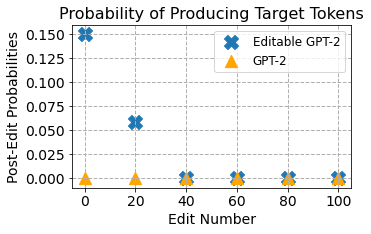
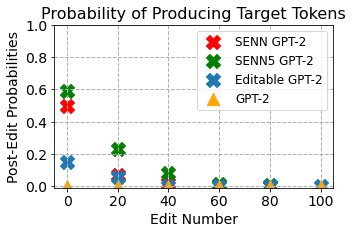
Updated SENN and eval code to work together correctly. Some minor refactors of how SENN gets applied (now in src/utils.py).

Changed region(s): [[0.0, 0.0299, 0.9972, 0.9573], [0.1558, 0.8376, 0.2493, 0.8974], [0.8102, 0.6581, 0.8725, 0.688]]

diff --git a/src/alg/senn_conditional.py b/src/alg/senn_conditional.py
@@ -2,31 +2,18 @@ import torch
 import torch.nn as nn
 from typing import Callable, List
 
+
 def filter_inner_params(params: List[nn.Parameter]):
     return [p for p in params if not hasattr(p, "__conditioner__")]
-
-
-class ConditionalLinear(nn.Module):
-    def __init__(self, dim):
-        super().__init__()
-
-        self.weight = nn.Parameter(torch.eye(dim))
-        self.weight.__conditioner__ = True
-
-    def set_active(self, active: bool):
-        self.active = active
-
-    def forward(self, x):
-        if self.active:
-            return x @ self.weight
-        else:
-            return x
 
 
 class ConditionalLinearWrapper(nn.Module):
     @staticmethod
     def wrap_model(
-        model: nn.Module, n_hidden: int, dim: int, predicate: Callable[[nn.Module], bool]
+        model: nn.Module,
+        n_hidden: int,
+        dim: int,
+        predicate: Callable[[nn.Module], bool],
     ):
         def _recursive_apply(module: nn.Module):
             n_wrapped = 0
@@ -65,18 +52,19 @@ class ConditionalLinearWrapper(nn.Module):
         # If this model already has `inner_params` defined, hot-swap this function to
         #  ensure it doesn't return any conditioning parameters
         if hasattr(model, "inner_params"):
-            def _constructor(old_inner_params):
-                def _senn_inner_params(self):
-                    return filter_inner_params(old_inner_params())
-                return _senn_inner_params
-            _inner_params = _constructor(model.inner_params)
+            print("Overriding existing `inner_params` implementation")
+            type(model).default_inner_params = type(model).inner_params
+            type(model).inner_params = lambda self: filter_inner_params(
+                self.default_inner_params()
+            )
         else:
-            def _inner_params(self):
-                return self.theta()
+            print("Injecting defaulting `inner_params` implementation -> `self.theta`")
+            type(model).default_inner_params = model.theta.__func__
+            type(model).inner_params = model.theta.__func__
 
-        # Add this specifically to this instance
-        model.inner_params = _inner_params.__get__(model)
-        
+        print(f"n default inner params: {len(model.default_inner_params())}")
+        print(f"n inner params: {len(model.inner_params())}")
+
         return model
 
     def __init__(self, module: nn.Module, size: int, dim: int = -1):
@@ -87,6 +75,17 @@ class ConditionalLinearWrapper(nn.Module):
         self.weight.__conditioner__ = True
         self.active = False
         self.dim = dim
+
+        def __deepcopy__(self, memo=None):
+            new_data = torch.empty_like(self.data)
+            new_data[:] = self.data.clone()
+            new_param = nn.Parameter(new_data)
+            if hasattr(self, "__conditioner__"):
+                new_param.__conditioner__ = True
+            new_param.__deepcopy__ = __deepcopy__.__get__(new_param)
+            return new_param
+
+        self.weight.__deepcopy__ = __deepcopy__.__get__(self.weight)
 
     def set_active(self, active: bool):
         self.active = active
@@ -101,3 +100,46 @@ class ConditionalLinearWrapper(nn.Module):
             )
 
         return out
+
+
+def _test_copy(model):
+    import copy
+    print("default", len(model.default_inner_params()))
+    print("inner", len(model.inner_params()))
+    modelcopy = copy.deepcopy(model)
+    print("copied")
+    print("default", len(modelcopy.default_inner_params()))
+    print("inner", len(modelcopy.inner_params()))
+    if id(modelcopy.inner_params()[0].data) != id(model.inner_params()[0].data):
+        print("FAIL")
+    else:
+        print("SUCCESS")
+
+    
+
+if __name__ == "__main__":
+    import transformers
+    import utils
+
+    model = transformers.GPT2LMHeadModel.from_pretrained("distilgpt2")
+    tok = transformers.GPT2Tokenizer.from_pretrained('distilgpt2')
+    utils.prep_for_maml(model)
+    conv_predicate = lambda mod: (
+        isinstance(mod, transformers.models.gpt2.modeling_gpt2.Conv1D)
+        and mod.weight.shape[1] == 768
+    )
+    ConditionalLinearWrapper.wrap_model(model, model.config.n_embd, -1, conv_predicate)
+
+    input_ids = tok('This is a test sequence', return_tensors='pt')['input_ids']
+
+    grads1 = torch.autograd.grad(model(input_ids, labels=input_ids).loss, model.phi(), allow_unused=True)
+    model.set_editing(True)
+    print('editing ON')
+    grads2 = torch.autograd.grad(model(input_ids, labels=input_ids).loss, model.phi())
+    model.set_editing(False)
+    print('editing OFF')
+    grads3 = torch.autograd.grad(model(input_ids, labels=input_ids).loss, model.phi(), allow_unused=True)
+    
+    import pdb
+
+    pdb.set_trace()

diff --git a/src/evaluate.py b/src/evaluate.py
@@ -32,7 +32,7 @@ def perplexity(model, dataloader):
     model.eval()
     with torch.no_grad():
         for batch_idx, (lm_data, edit_example, _, _) in enumerate(dataloader):
-            lm_tokens, lm_mask = lm_data
+            lm_tokens, lm_mask = lm_data[0]
             lm_tokens, lm_mask = lm_tokens.to(DEVICE), lm_mask.to(DEVICE)
             lm_labels = lm_tokens.masked_fill(lm_mask == 0, -100)
             out = model(lm_tokens, labels=lm_labels)
@@ -98,7 +98,6 @@ def performOneEdit(
     logit_hist.append(
         getIndexedProbs(model, edit_locs, gold_tokens, edit_tokens)
     )
-    
     with higher.innerloop_ctx(
         model, 
         inner_opt, 
@@ -128,12 +127,10 @@ def performOneEdit(
             print(f"logit history: {logit_hist}")
             print(f"Edit step {edit_step}; ll change {ll_change} , logit {logit_hist[-1]}, loss {output.loss}")
 
-    # To prevent PyTorch warning, since fmodel has torch.tensor parameters instead of nn.Parameter parameters
-    #  TODO: resolve the right way to have a single edit implementation for train/eval and fix/remove this
-    for p in fmodel.parameters():
-        p.requires_grad_().retain_grad()
-            
-    return fmodel, logit_hist, ll_change, output.loss
+    edited_model = copy.deepcopy(model)
+    edited_model.load_state_dict(fmodel.state_dict())
+
+    return edited_model, logit_hist, ll_change, output.loss
 
 def genModelText(finetuned, lm_tokens):
 
@@ -282,11 +279,11 @@ def evalSelfSample(
             print(f"Edit number {edit_number}")
             print(f"Model number {model_number}")
             
-            lm_tokens, lm_mask = lm_data
+            lm_tokens, lm_mask = lm_data[0]
             lm_tokens, lm_mask = lm_tokens.to(DEVICE), lm_mask.to(DEVICE)
             lm_labels = lm_tokens.masked_fill(lm_mask == 0, -100)
 
-            edit_tokens, edit_mask = edit_example
+            edit_tokens, edit_mask = edit_example[0]
             # remove left padding
             edit_tokens = edit_tokens.squeeze(0)
             edit_tokens = edit_tokens[edit_tokens != 50256].unsqueeze(0)
@@ -303,8 +300,7 @@ def evalSelfSample(
             edit_tokens, edit_mask = edit_tokens.to(DEVICE), edit_mask.to(DEVICE)
 
             gold_tokens = gold_tokens.cpu()
-
-            model_edited, logit_hist = performOneEdit(
+            model_edited, logit_hist, ll_change, loss = performOneEdit(
                 model_edited,
                 lrs,
                 edit_tokens, 
@@ -475,6 +471,7 @@ if __name__ == "__main__":
     parser.add_argument('--model_path', help='')
     parser.add_argument('--test_set', action='store_true')
     parser.add_argument('--self_sample', action='store_true')
+    parser.add_argument('--split_params', action='store_true')
     parser.add_argument('--edit_steps', default=5, type=int)
     parser.add_argument('--seq_edits', default=1, type=int)
     parser.add_argument('--copy_to')
@@ -483,7 +480,8 @@ if __name__ == "__main__":
     loc = utils.sailPreprocess()
 
     if args.model_path: 
-        model, tokenizer = utils.loadTrainedModel(args.model_path, cache_dir=loc)
+        model, tokenizer = utils.loadTrainedModel(args.model_path, cache_dir=loc,
+                                                  split_params=args.split_params)
 
     ds = 'test' if args.test_set else 'validation'
     dataloader = utils.retrieveEditDataloader(
@@ -496,7 +494,7 @@ if __name__ == "__main__":
 
     if args.self_sample:
         evalSelfSample(
-            model, 
+            model,
             dataloader,
             args.model_path, 
             int(args.edit_steps),

diff --git a/src/train.py b/src/train.py
@@ -19,7 +19,6 @@ from torch.utils.data import Subset
 import utils
 from config import TrainConfig, EditConfig, SelfSampleConfig
 from evaluate import performOneEdit
-from alg.senn_conditional import ConditionalLinearWrapper
 
 DEVICE = 'cuda' if torch.cuda.is_available() else 'cpu'
 
@@ -69,7 +68,7 @@ class BaseTrainer:
                     out_obj, 
                     self.statepath(name, self.epoch, 9999)
                     )
-            elif (train_step > 0) & (train_step % self.config.model_save_pt == 0):
+            elif (train_step > 0) and (train_step % self.config.model_save_pt == 0):
                 torch.save(
                     out_obj, 
                     self.statepath(name, self.epoch, train_step)
@@ -157,12 +156,7 @@ class EditTrainer(BaseTrainer):
         )
         self.model.eval()
         self.model.to(self.device)
-        
-        # Default inner loop adaptation parameters
-        def _inner_params(self):
-            return list(self.transformer.h[-3:].parameters())
-        self.model.inner_params = _inner_params.__get__(self.model)
-        
+
     def validateEditTraining(self):
         self.model.eval()
         iters = 0
@@ -360,12 +354,8 @@ class SelfSampleTrainer(EditTrainer):
         )
 
         if self.config.split_params:
-            # find Conv1D layers to replace (they annoyingly have transposed weights)
-            conv_predicate = lambda mod: (
-                isinstance(mod, transformers.models.gpt2.modeling_gpt2.Conv1D) and mod.weight.shape[1] == 768
-            )
-            ConditionalLinearWrapper.wrap_model(self.model, self.model.config.n_embd, -1, conv_predicate)
-        
+            utils.split_conv_layers(self.model)
+
     def genModelText(self, lm_tokens):
         
         len_lm = lm_tokens.shape[-1]
@@ -640,7 +630,7 @@ class SelfSampleTrainer(EditTrainer):
                     print("Reached max iterations")
                     break
             
-                if (train_step % 200 == 0) & (not self.config.debug):
+                if (train_step % 200 == 0) and (not self.config.debug):
                     self.validateSelfSampleTraining()
         
         self.saveState(self.model, global_iter, final=True, name="self_sample")
@@ -688,6 +678,7 @@ if __name__ == "__main__":
         config.bs = args.bs
         config.n_edits = args.n_edits
         config.split_params = args.split_params
+        config.debug = args.debug
         trainer = EditTrainer(config, dataloader)
     
     elif args.finetune:

diff --git a/src/utils.py b/src/utils.py
@@ -6,8 +6,11 @@ from shutil import copyfile
 import glob
 import numpy as np
 import torch
+import transformers
 from transformers import GPT2Tokenizer, GPT2LMHeadModel
 from data_process import TorchDataset, WikitextDataset
+
+from alg.senn_conditional import ConditionalLinearWrapper
 
 def loadOTSModel(cache_dir=None):
     model = GPT2LMHeadModel.from_pretrained(
@@ -118,13 +121,36 @@ def wikiDataloader(
     return dataloader
 
 
-def loadTrainedModel(modelPath, cache_dir=None, tokenizer=True):
+def split_conv_layers(model):
+    # find Conv1D layers to replace (they annoyingly have transposed weights)
+    conv_predicate = lambda mod: (
+        isinstance(mod, transformers.models.gpt2.modeling_gpt2.Conv1D) and mod.weight.shape[1] == 768
+    )
+    ConditionalLinearWrapper.wrap_model(model, model.config.n_embd, -1, conv_predicate)
+
+
+def prep_for_maml(model, adapt_all: bool = False):
+    # Default inner loop adaptation parameters
+    def _inner_params(self):
+        if adapt_all:
+            return list(self.transformer.h.parameters())
+        else:
+            return list(self.transformer.h[-3:].parameters())
+    type(model).inner_params = _inner_params
+
+
+def loadTrainedModel(modelPath, cache_dir=None, tokenizer=True, split_params: bool = False, adapt_all: bool = False):
     model, tok = loadOTSModel(cache_dir=cache_dir)
+    prep_for_maml(model, adapt_all)
+    if split_params:
+        split_conv_layers(model)
+        
     model.load_state_dict(torch.load(modelPath))
     model.eval()
     if not tokenizer:
         return model
     return model, tok
+
 
 def locateSubset(whole, subset):
     whole = whole.flatten().cpu().numpy()
